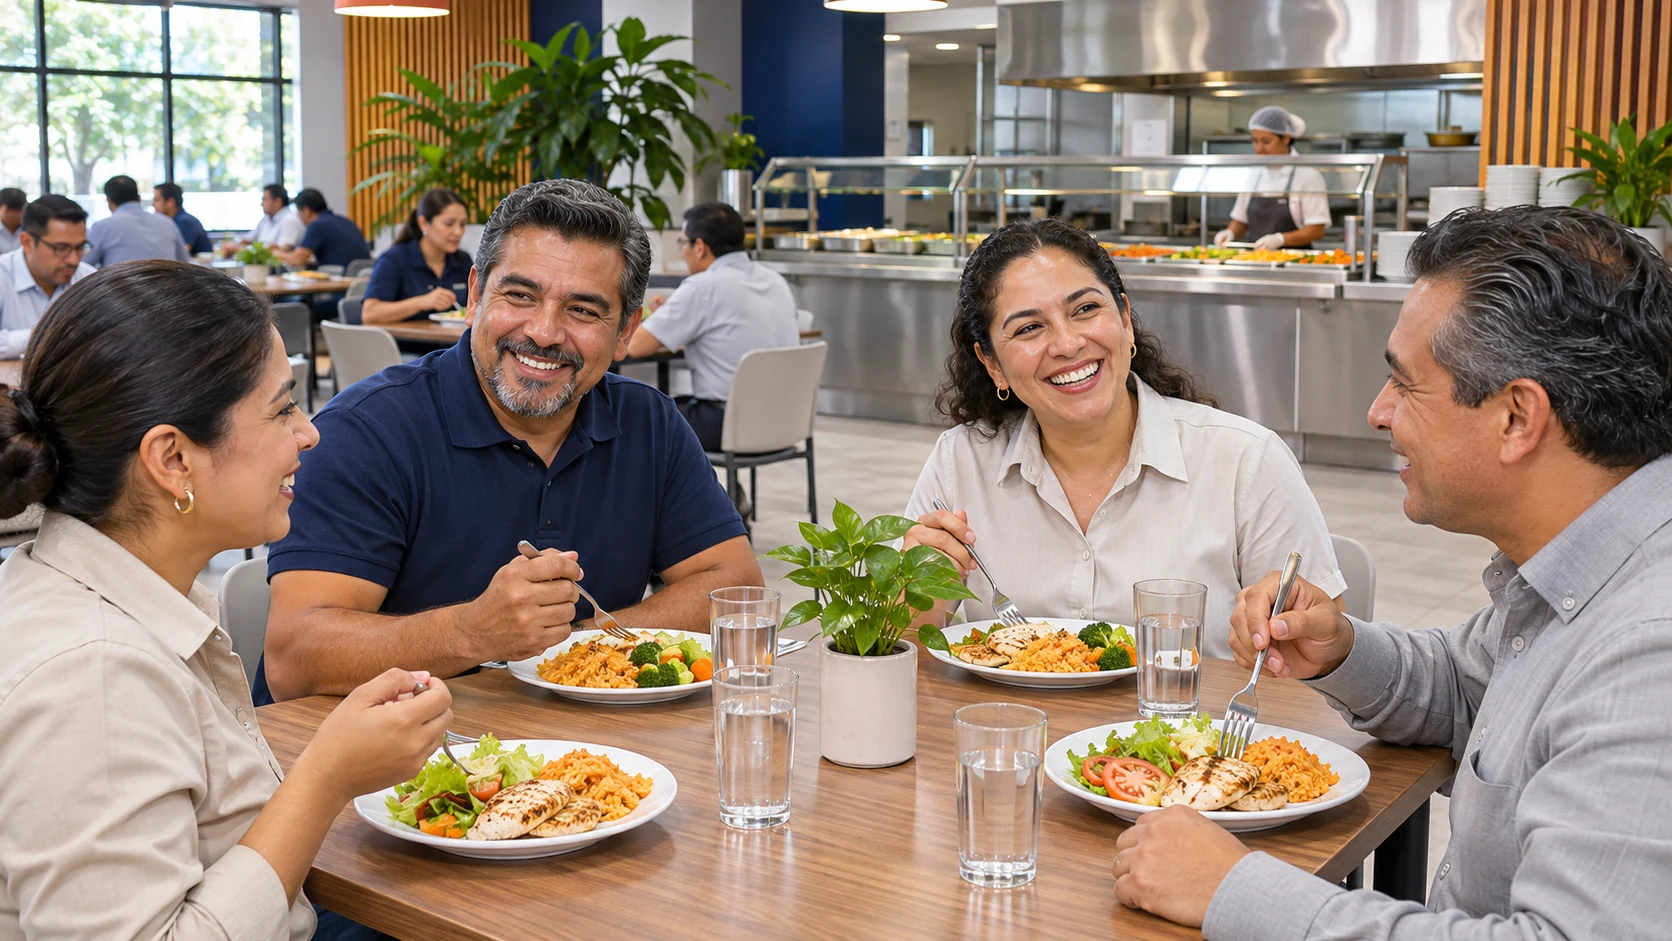
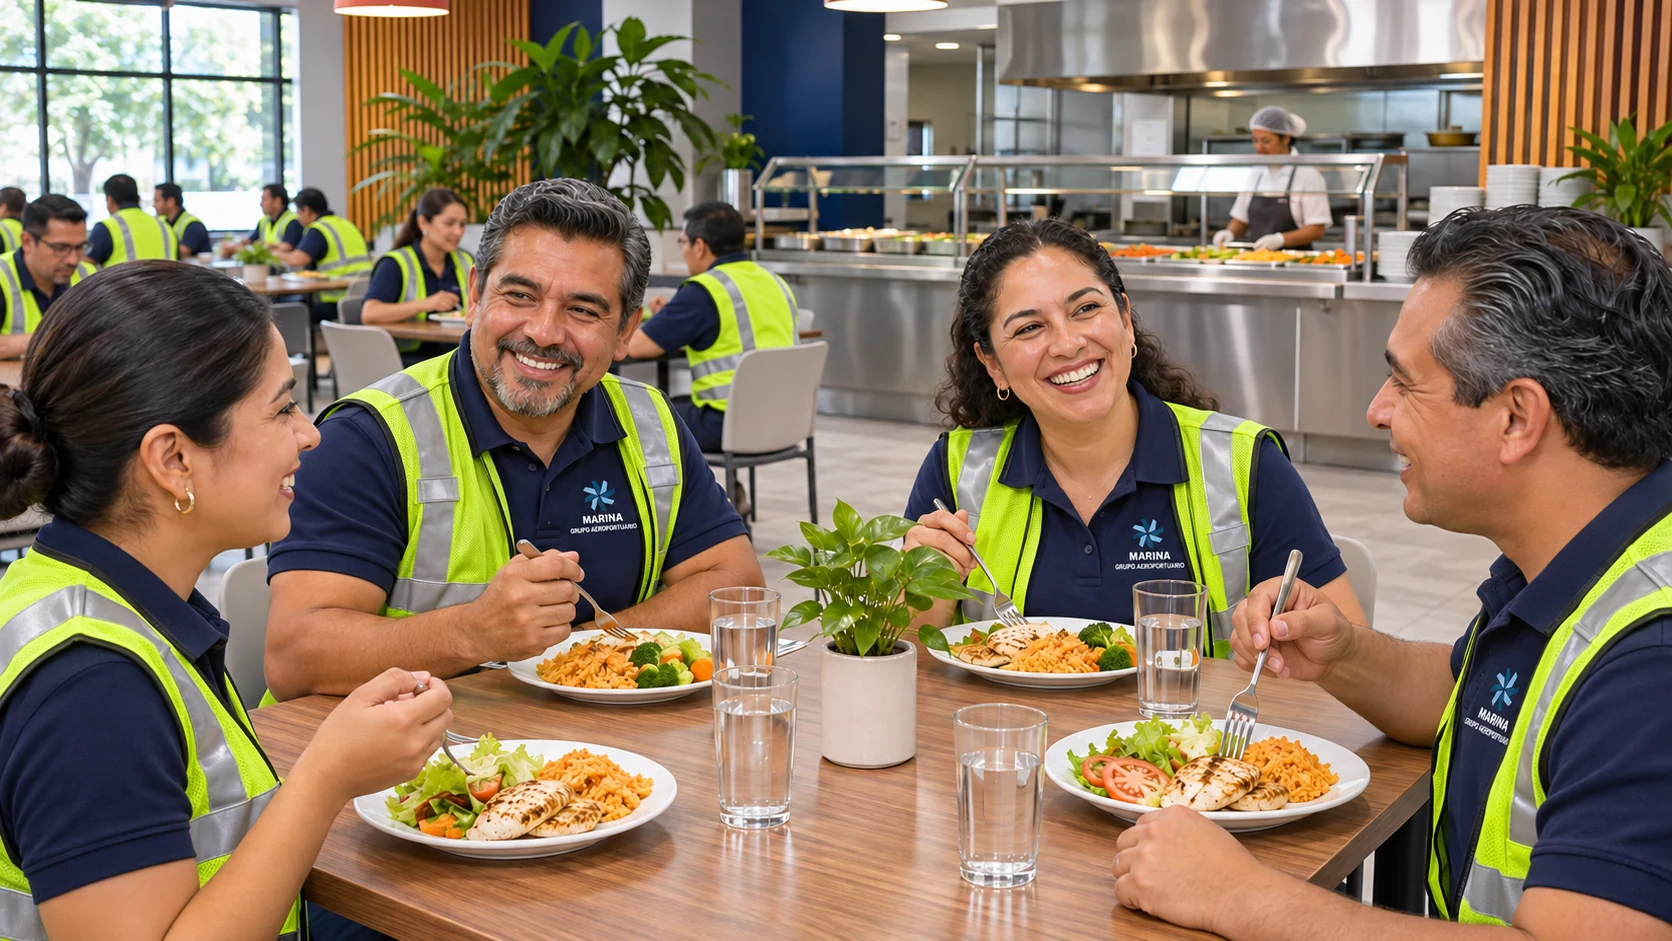
Uniforma la imagen del comedor con chalecos verdes y polos Marina

diff --git a/docs/DISENO-COMIDAS.md b/docs/DISENO-COMIDAS.md
@@ -1,6 +1,6 @@
 # Diseño de inicio: alimentos y comedor
 
-La cabecera presenta un plato servido sobre fondo azul institucional y una sección inferior muestra personas compartiendo alimentos en un comedor industrial. Ambas imágenes son ilustraciones fotográficas generadas para el diseño; no documentan instalaciones ni personal reales del AICM. Se conserva la identidad de Marina y todos los permisos y destinos de los accesos. El icono de avión se sustituye por una campana de servicio y el fondo de acceso utiliza la nueva imagen gastronómica.
+La cabecera presenta un plato servido sobre fondo azul institucional y una sección inferior muestra personas compartiendo alimentos en un comedor industrial, con chalecos verdes de seguridad, franjas reflejantes y polos azul marino con el emblema de Grupo Aeroportuario Marina. Ambas imágenes son ilustraciones fotográficas generadas para el diseño; no documentan instalaciones ni personal reales del AICM. Se conserva la identidad de Marina y todos los permisos y destinos de los accesos. El icono de avión se sustituye por una campana de servicio y el fondo de acceso utiliza la nueva imagen gastronómica.
 
 ![Inicio del sistema con alimentos y comedor](capturas/inicio-comidas.png)
 
